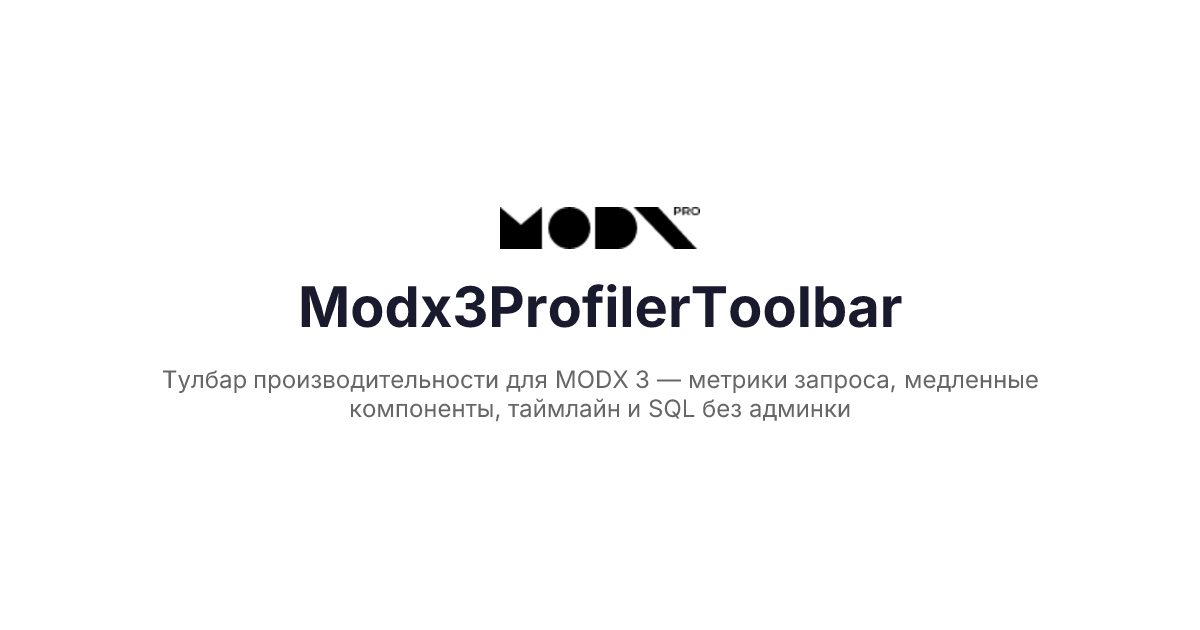
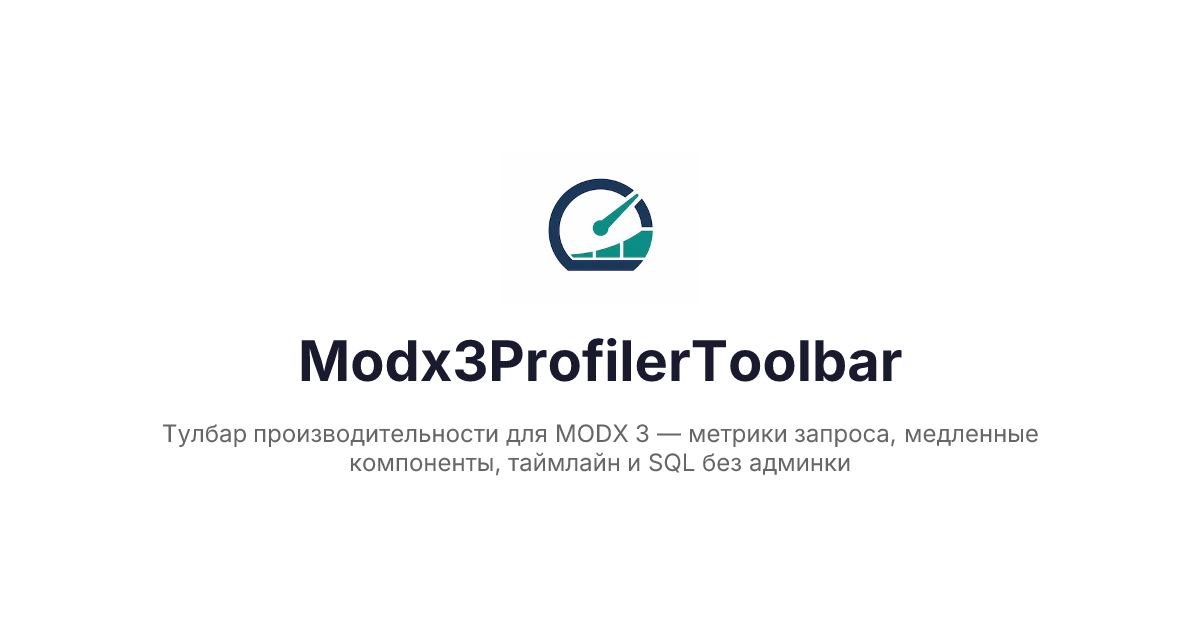
fix: обновить логотипы компонентов и og-изображения

Changed region(s): [[0.1233, 0.2714, 0.8633, 0.754]]

diff --git a/docs/components/modx3ProfilerToolbar/index.md b/docs/components/modx3ProfilerToolbar/index.md
@@ -2,7 +2,7 @@
 title: Modx3ProfilerToolbar
 description: Тулбар производительности для MODX 3 — метрики запроса, медленные компоненты, таймлайн и SQL без админки
 author: ibochkarev
-
+logo: https://modstore.pro/assets/extras/modx3profilertoolbar/logo.jpg
 items: [
   { text: 'Быстрый старт', link: 'quick-start' },
   { text: 'Системные настройки', link: 'settings' },

diff --git a/docs/components/ms3pulse/index.md b/docs/components/ms3pulse/index.md
@@ -1,7 +1,7 @@
 ---
 title: ms3Pulse
 description: Дашборд продаж и аналитика для MiniShop3 — метрики, графики, экспорт и отчёты по расписанию
-logo: https://modstore.pro/assets/extras/ms3pulse/logo.png
+logo: https://modstore.pro/assets/extras/ms3pulse/logo.jpg
 author: ibochkarev
 
 items: [
